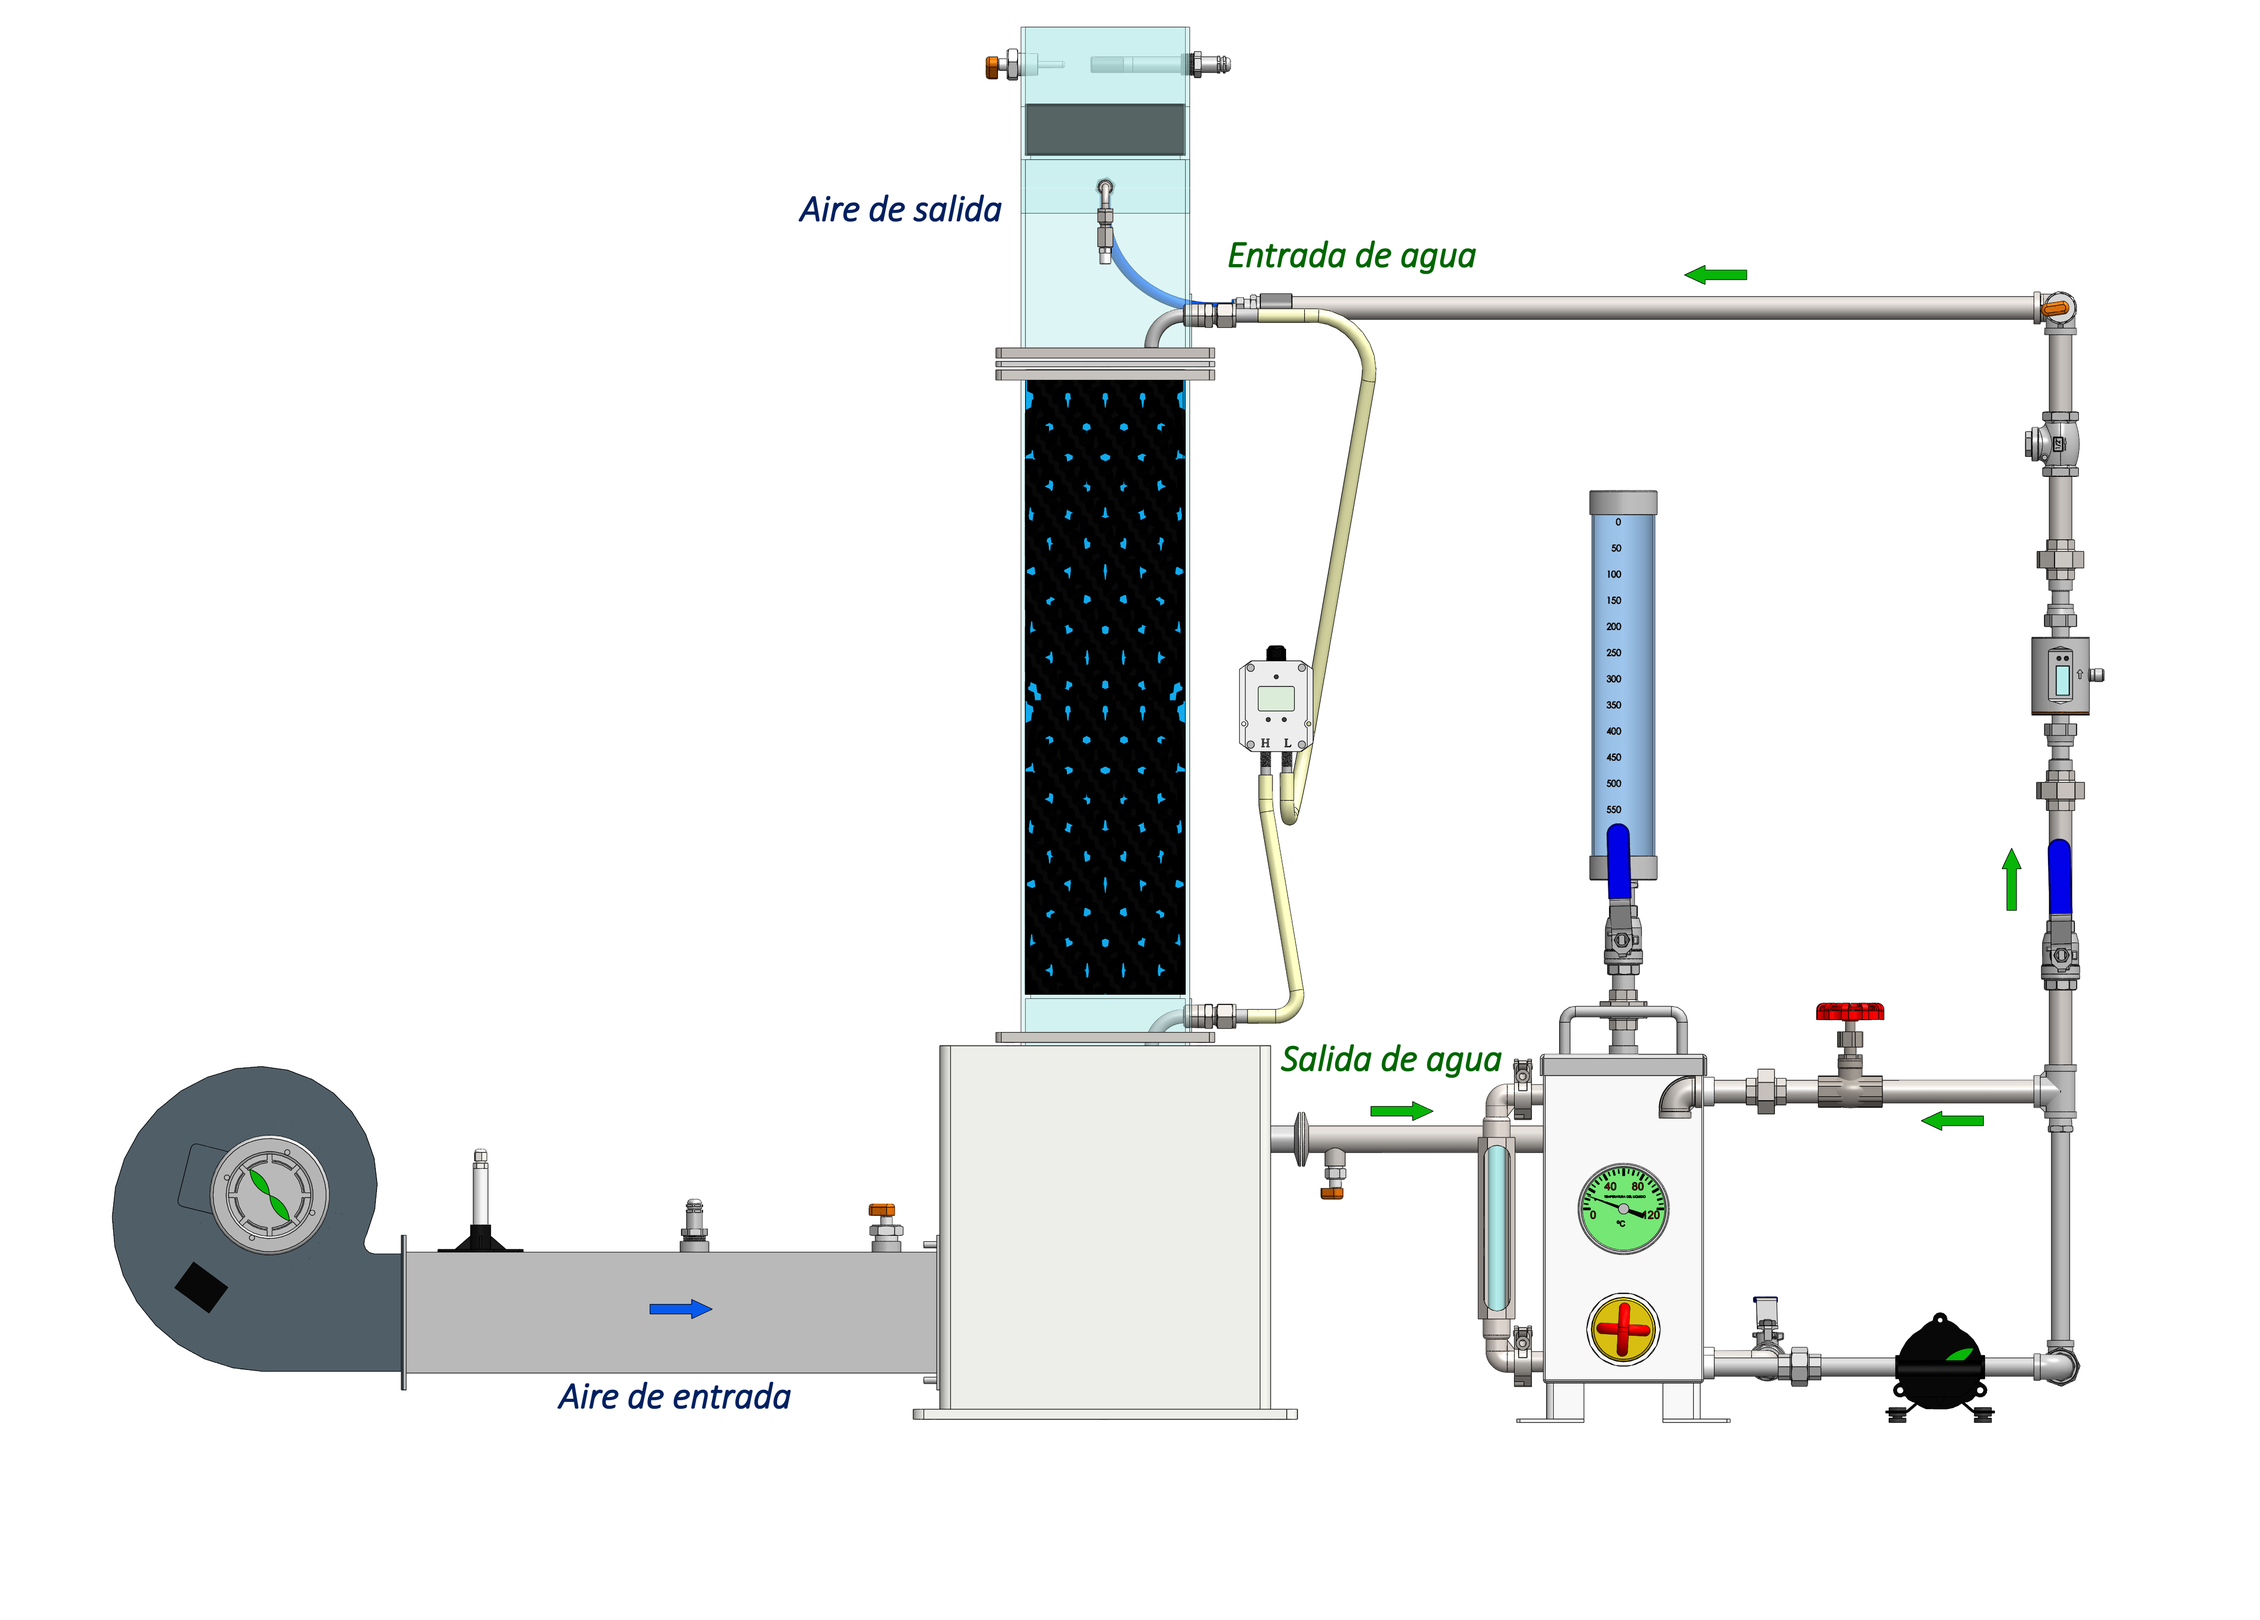
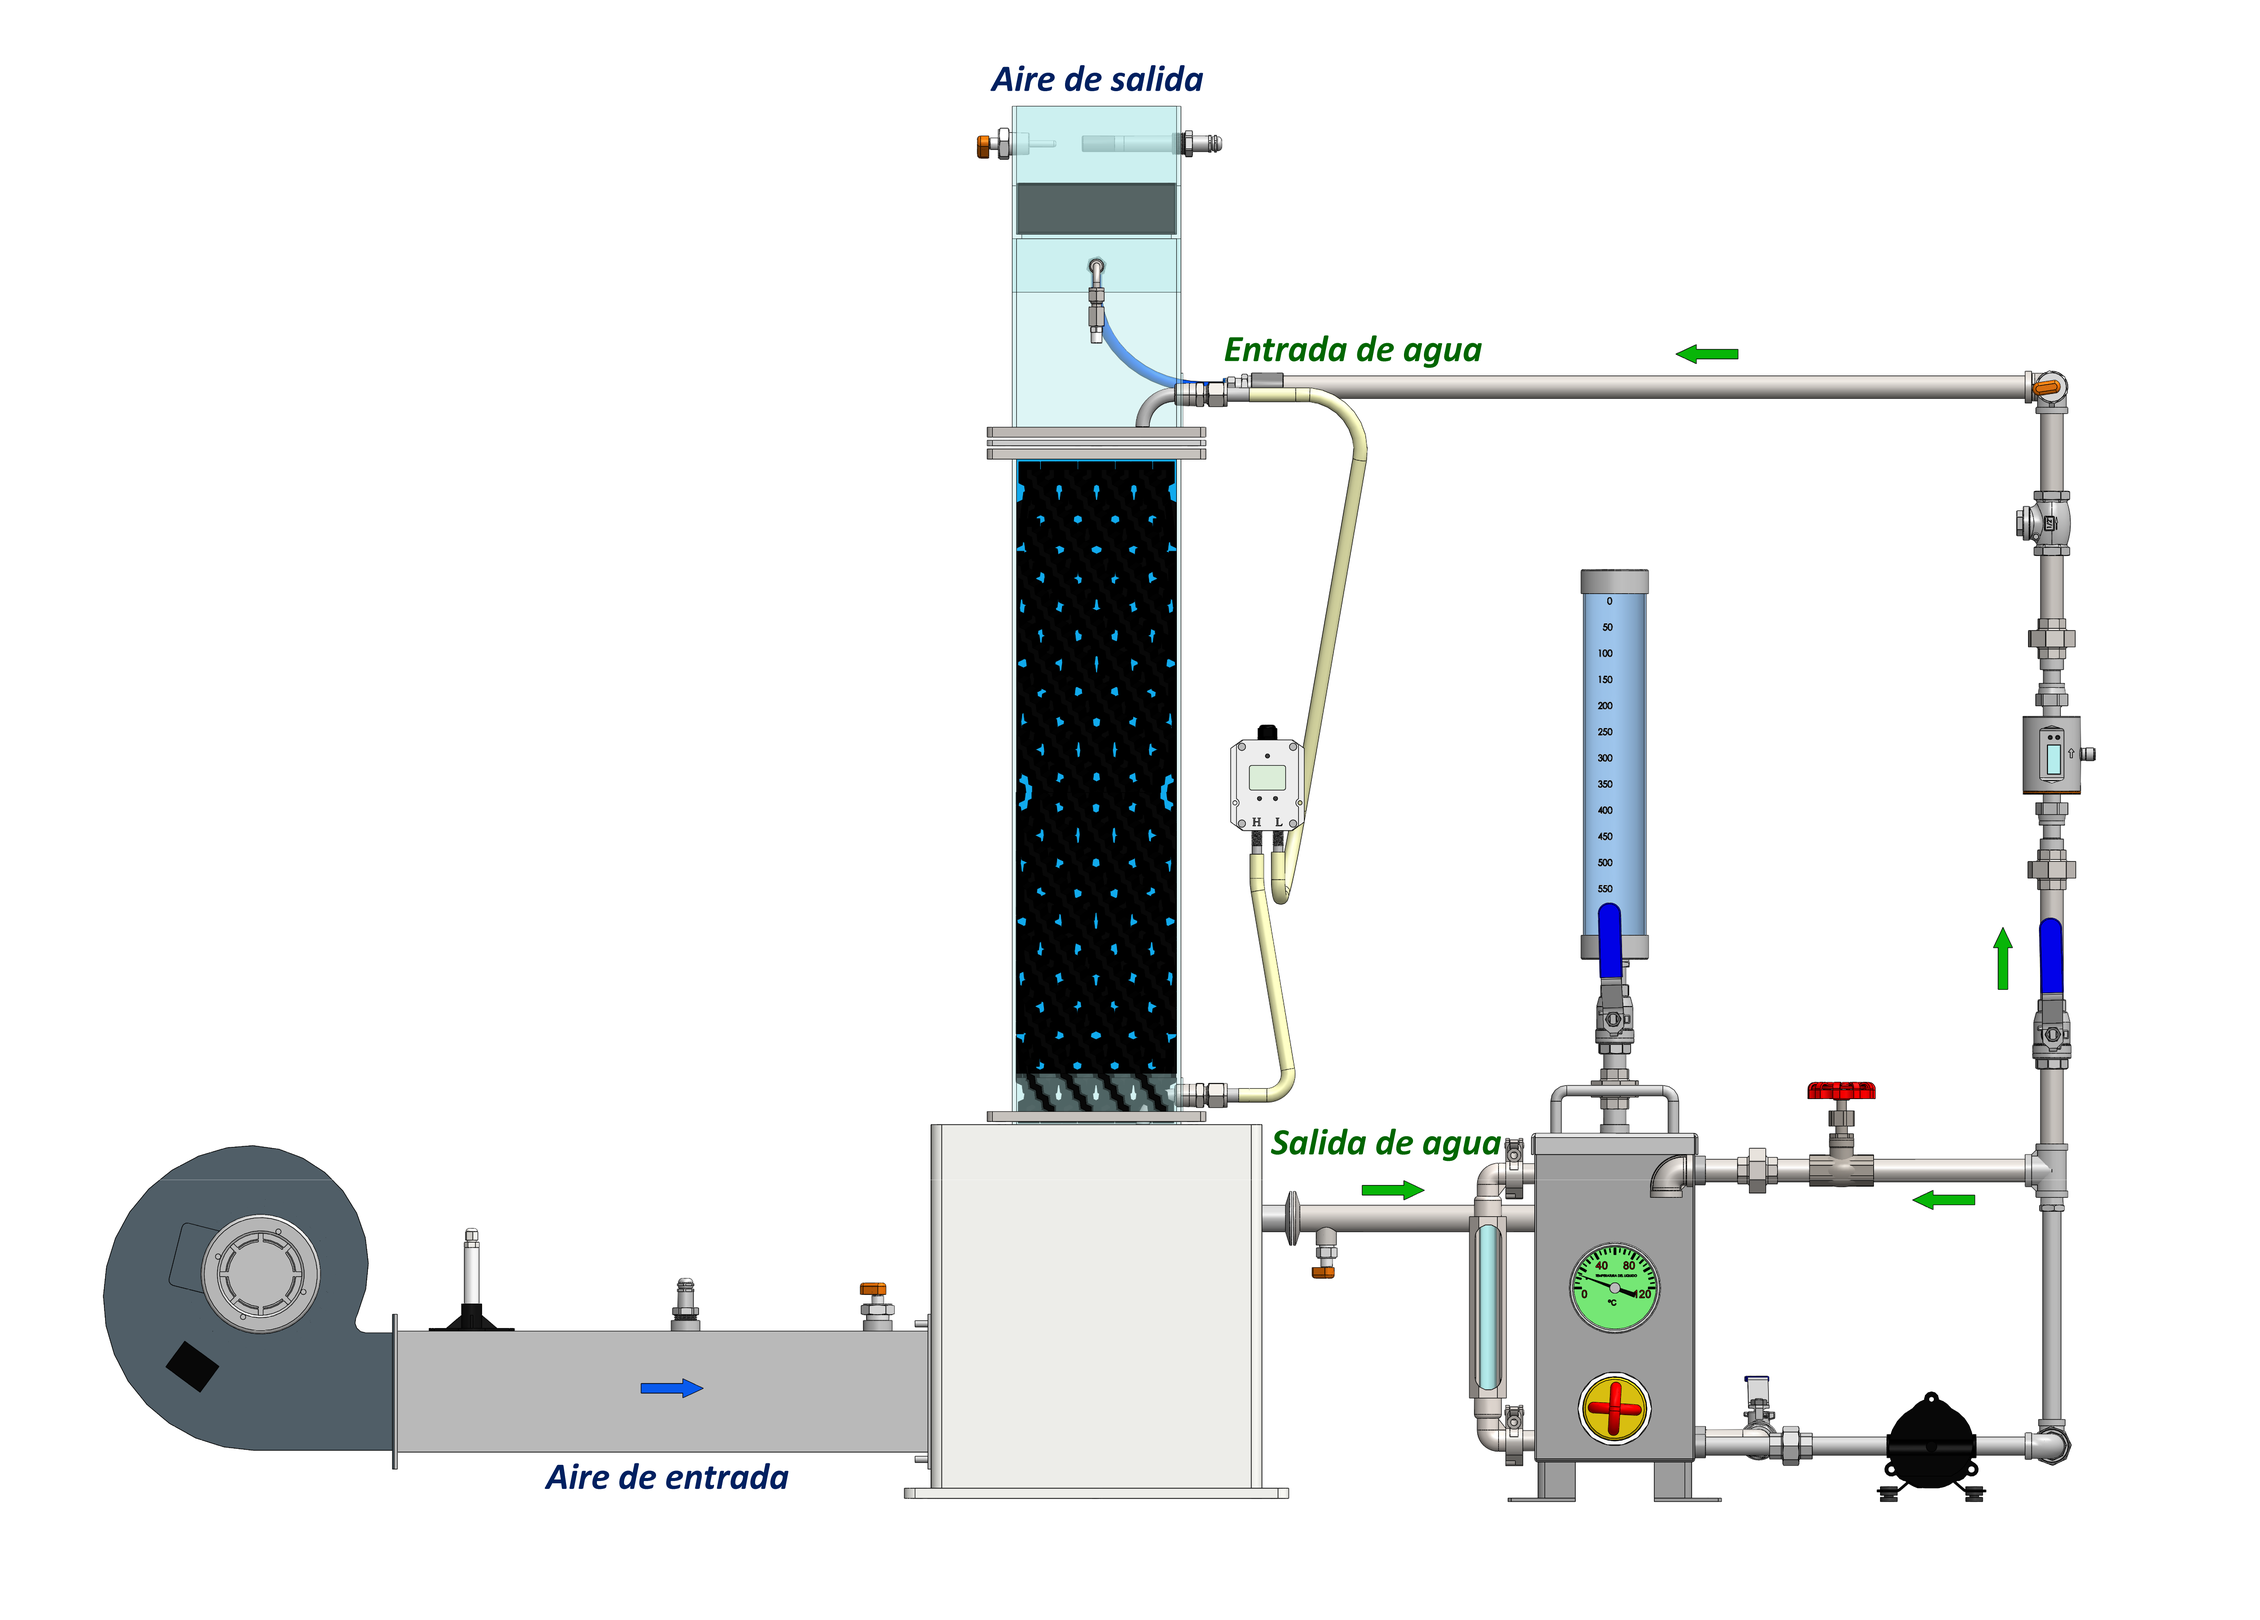
Cooling tower diagram variables moved and image update

Changed region(s): [[0.0312, 0.0, 0.9348, 0.9347]]

diff --git a/frontend/src/types/models/coolingTower.ts b/frontend/src/types/models/coolingTower.ts
@@ -215,7 +215,7 @@ export const COOLING_TOWER_DIAGRAM_VARIABLES: DiagramVariableType[] = [
     diagramName: 'Flujo Agua Entrada',
     fixed: 2,
     x: 4300,
-    y: 1000,
+    y: 1210,
   },
   {
     name: 'Temperatura Agua superior',
@@ -225,7 +225,7 @@ export const COOLING_TOWER_DIAGRAM_VARIABLES: DiagramVariableType[] = [
     diagramName: 'Temp. Agua Entrada',
     fixed: 2,
     x: 3700,
-    y: 500,
+    y: 710,
   },
   {
     name: 'Temperatura Aire superior',
@@ -235,7 +235,7 @@ export const COOLING_TOWER_DIAGRAM_VARIABLES: DiagramVariableType[] = [
     diagramName: 'Temp. Aire Salida',
     fixed: 2,
     x: 1500,
-    y: 100,
+    y: 310,
   },
   {
     name: 'Humedad Aire superior',
@@ -245,7 +245,7 @@ export const COOLING_TOWER_DIAGRAM_VARIABLES: DiagramVariableType[] = [
     diagramName: 'Hum. Aire Salida',
     fixed: 2,
     x: 3700,
-    y: 100,
+    y: 310,
   },
   {
     name: 'Delta Temperatura Aire',
@@ -255,7 +255,7 @@ export const COOLING_TOWER_DIAGRAM_VARIABLES: DiagramVariableType[] = [
     diagramName: 'ΔTemp. Aire',
     fixed: 2,
     x: 1500,
-    y: 250,
+    y: 460,
   },
   {
     name: 'Temperatura Agua Inferior',
@@ -265,7 +265,7 @@ export const COOLING_TOWER_DIAGRAM_VARIABLES: DiagramVariableType[] = [
     diagramName: 'Tem. Agua Salida',
     fixed: 2,
     x: 1600,
-    y: 2400,
+    y: 2610,
   },
   {
     name: 'Delta Temperatura Agua',
@@ -275,7 +275,7 @@ export const COOLING_TOWER_DIAGRAM_VARIABLES: DiagramVariableType[] = [
     diagramName: 'ΔTemp. Agua',
     fixed: 2,
     x: 1600,
-    y: 2550,
+    y: 2760,
   },
   {
     name: 'Flujo Aire inferior',
@@ -285,7 +285,7 @@ export const COOLING_TOWER_DIAGRAM_VARIABLES: DiagramVariableType[] = [
     diagramName: 'Flujo Aire Entrada',
     fixed: 2,
     x: 1410,
-    y: 3400,
+    y: 3610,
   },
   {
     name: 'Temperatura Aire inferior',
@@ -295,7 +295,7 @@ export const COOLING_TOWER_DIAGRAM_VARIABLES: DiagramVariableType[] = [
     diagramName: 'Temp. Aire Entrada',
     fixed: 2,
     x: 1400,
-    y: 2800,
+    y: 3010,
   },
   {
     name: 'Humedad Aire inferior',
@@ -305,7 +305,7 @@ export const COOLING_TOWER_DIAGRAM_VARIABLES: DiagramVariableType[] = [
     diagramName: 'Hum. Aire Entrada',
     fixed: 2,
     x: 1400,
-    y: 2950,
+    y: 3160,
   },
   {
     name: 'Energía aplicada al agua',
@@ -315,7 +315,7 @@ export const COOLING_TOWER_DIAGRAM_VARIABLES: DiagramVariableType[] = [
     diagramName: 'Energía aplicada',
     fixed: 2,
     x: 4300,
-    y: 3900,
+    y: 4110,
   },
   {
     name: 'Delta de presión',
@@ -324,7 +324,7 @@ export const COOLING_TOWER_DIAGRAM_VARIABLES: DiagramVariableType[] = [
     isShown: true,
     diagramName: 'ΔPresión',
     fixed: 2,
-    x: 3120,
-    y: 1470,
+    x: 3100,
+    y: 1680,
   },
 ];
